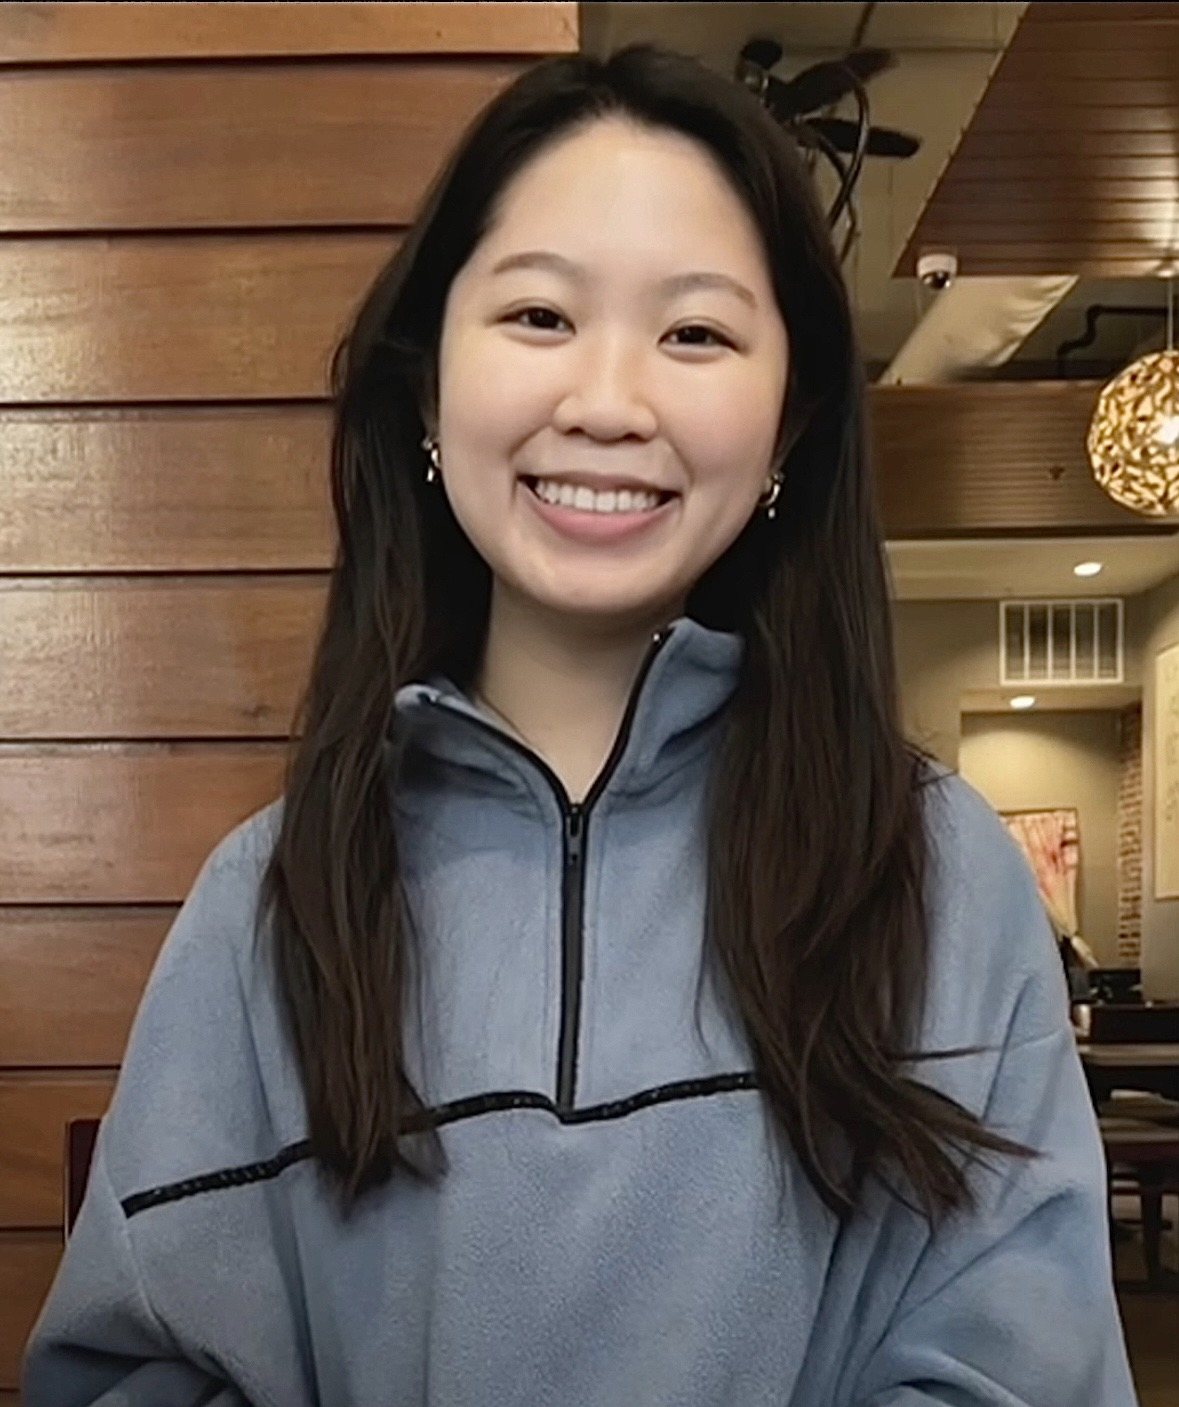
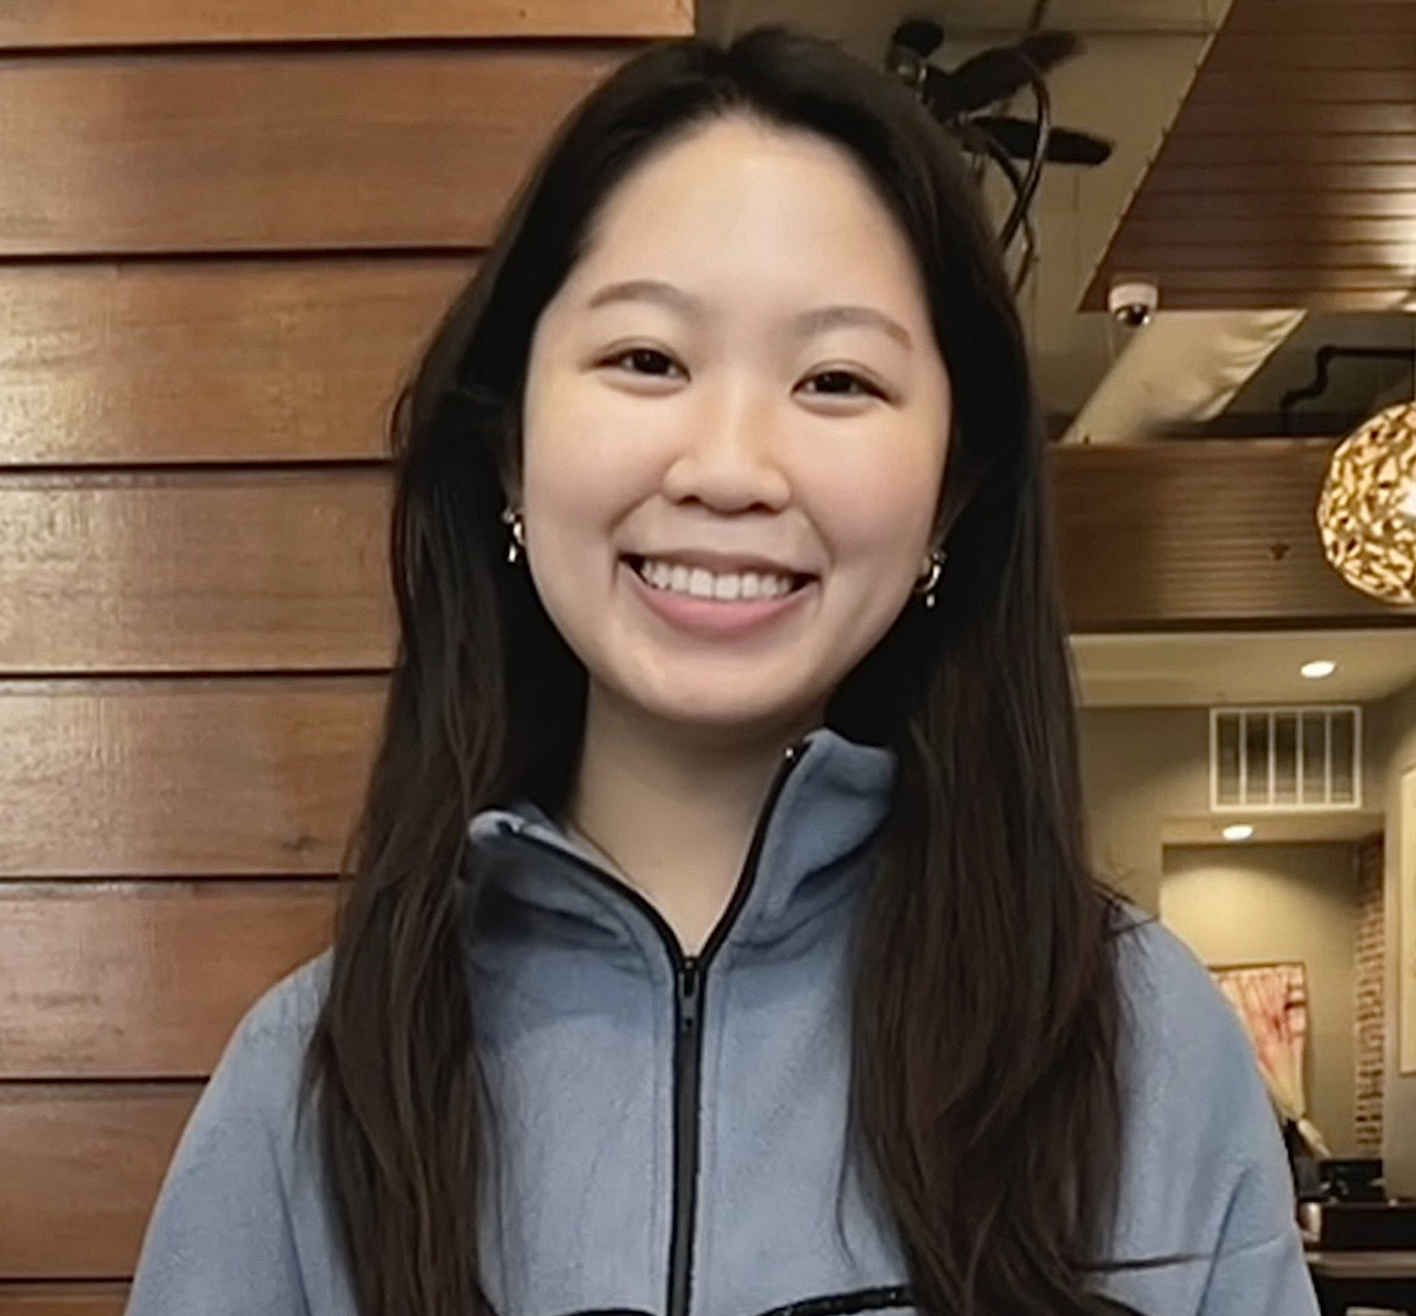
add photos and styling

diff --git a/web/_includes/staff.html b/web/_includes/staff.html
@@ -1,7 +1,7 @@
 <section id="staff" class="anchor">
     <div class="wrapper">
         <h1 class="ul ul-2 section-text">{{site.data.staff.title}}</h1>
-        <img loading="lazy" class="drink-1 shake" id="tea" src="static/img/drinks/tea.png" draggable="false"
+        <img loading="lazy" class="drink-1 shake inter-photo" id="tea" src="{{site.data.staff.staffs_photo}}" draggable="false"
             alt="chai" />
     </div>
     <div class="lightbox">
@@ -37,7 +37,7 @@
         </div>
         <!-- HTA's -->
         <div class="staff-tiling">
-            {% for i in site.data.staff.staff %}
+            {% for i in site.data.staff.htas %}
             {% if i.role == "HTA" %}
             
             <div class="staff-tile">
@@ -64,7 +64,7 @@
             <h1 class="ul ul-2 section-text">UTA-STA's</h1>
         </div>
         <div class="staff-tiling">
-            {% for i in site.data.staff.staff %}
+            {% for i in site.data.staff.uta-sta %}
             {% if i.role == "UTA-STA" %}
             <div class="staff-tile">
                 <div class="effect">
@@ -91,7 +91,6 @@
         </div>
         <div class="staff-tiling">
             {% for i in site.data.staff.staff %}
-            {% if i.role == "UTA" %}
             <div class="staff-tile">
                 <div class="effect">
                     <img loading="lazy" class="staff-photo" src="{{i.photo}}"
@@ -105,7 +104,6 @@
                     <p>{{site.data.staff.theme}}: {{i.theme}}</p>
                 </div>
             </div>
-            {% endif %}
     
         {% endfor %}
         </div>

diff --git a/web/assets/css/main.css b/web/assets/css/main.css
@@ -16,10 +16,10 @@
     --fs-sm: 1rem;
     --fs-xs: 0.8rem;
 
-    --color-background: #b2d0a5;
+    --color-background: #faf4cd;
     --color-body: #393d4d;
     --color-black: #060912;
-    --color-off-black: #75a55d;
+    --color-off-black: #ea9ab2;
     --color-white: #f5f5f5;
     --color-off-white: #e8e8e8;
     --border-color-1: #686132;
@@ -142,7 +142,7 @@ div.lightbox {
         content: "";
         display: block;
         height: 100px;
-        margin-top: -100px;
+        margin-top: -150px;
         visibility: hidden;
     }
 }
@@ -334,7 +334,7 @@ div.landing-container {
     flex-direction: row;
     align-items: center;
     justify-content: space-between;
-    margin: 10vh 0;
+    margin: -20vh 0;
 }
 
 div.landing-left {
@@ -367,6 +367,12 @@ h2.landing-subtitle {
 
 img.landing-logo {
     width: 450px;
+    margin: -40px;
+}
+
+img.inter-photo {
+    width: 400px;
+    padding: 0px;
     margin: -40px;
 }
 

diff --git a/web/_includes/assignments.html b/web/_includes/assignments.html
@@ -2,7 +2,7 @@
 <section id="assignments" class="anchor">
     <div class="wrapper">
         <h1 class="ul ul-2 section-text">{{site.data.assignments.title}}</h1>
-        <img loading="lazy" class="drink-1 shake" id="chai_tea_latte" src="static/img/drinks/chai_tea_latte.png"
+        <img loading="lazy" class="drink-1 shake inter-photo" id="chai_tea_latte" src="{{site.data.assignments.assignments_pic}}"
             draggable="false" alt="chai" />
     </div>
     <div class=lightbox>

diff --git a/web/_includes/calendar.html b/web/_includes/calendar.html
@@ -1,7 +1,7 @@
 <section id="calendar" class="anchor">
     <div class="wrapper">
         <h1 class="ul ul-2 section-text">{{site.data.calendar.title}}</h1>
-        <img loading="lazy" class="drink-1 shake" id="latte" src="static/img/drinks/latte.png" draggable="false"
+        <img loading="lazy" class="drink-1 shake inter-photo" id="latte" src="{{site.data.calendar.calendar_photo}}" draggable="false"
             alt="chai" />
     </div>
     <div class="lightbox">

diff --git a/web/_includes/resources.html b/web/_includes/resources.html
@@ -1,7 +1,7 @@
 <section id="resources" class="anchor">
     <div class="wrapper">
         <h1 class="ul ul-2 section-text">{{site.data.resources.title}}</h1>
-        <img loading="lazy" class="drink-1 shake" id="teapot" src="static/img/drinks/teapot.png"
+        <img loading="lazy" class="drink-1 shake inter-photo" id="teapot" src="{{site.data.resources.resources_photo}}"
             draggable="false" alt="chai" />
     </div>
     <div class="lightbox">

diff --git a/web/_includes/lectures.html b/web/_includes/lectures.html
@@ -1,7 +1,7 @@
 <section id="lectures" class="anchor">
     <div class="wrapper">
         <h1 class="ul ul-2 section-text">{{site.data.lectures.title}}</h1>
-        <img loading="lazy" class="drink-1 shake" id="eggnog" src="static/img/drinks/eggnog.png"
+        <img loading="lazy" class="drink-1 shake inter-photo" id="eggnog" src="{{site.data.lectures.lectures_photo}}"
             draggable="false" alt="chai" />
     </div>
     <table>

diff --git a/web/_includes/landing.html b/web/_includes/landing.html
@@ -18,7 +18,7 @@
                 </div>
                 <div class="landing-logo-container">
                     <img loading="lazy" id="astronaut" class="landing-logo shake"
-                        src="static/img/drinks/hot_chocolate.png" draggable="false" alt="teacup" />
+                        src="{{site.data.landing.logo_pic}}" draggable="false" alt="teacup" />
                 </div>
             </div>
         </section>

diff --git a/web/_includes/footer.html b/web/_includes/footer.html
@@ -1,4 +1,6 @@
     <!-- FOOTER -->
     <footer>
+        <p>Artwork made from scratch by Jen Chen (everyone hype her up)!</p>
         <p>Copyright © {{page.year}} CSCI 0220 @ Brown</p>
+
     </footer>
